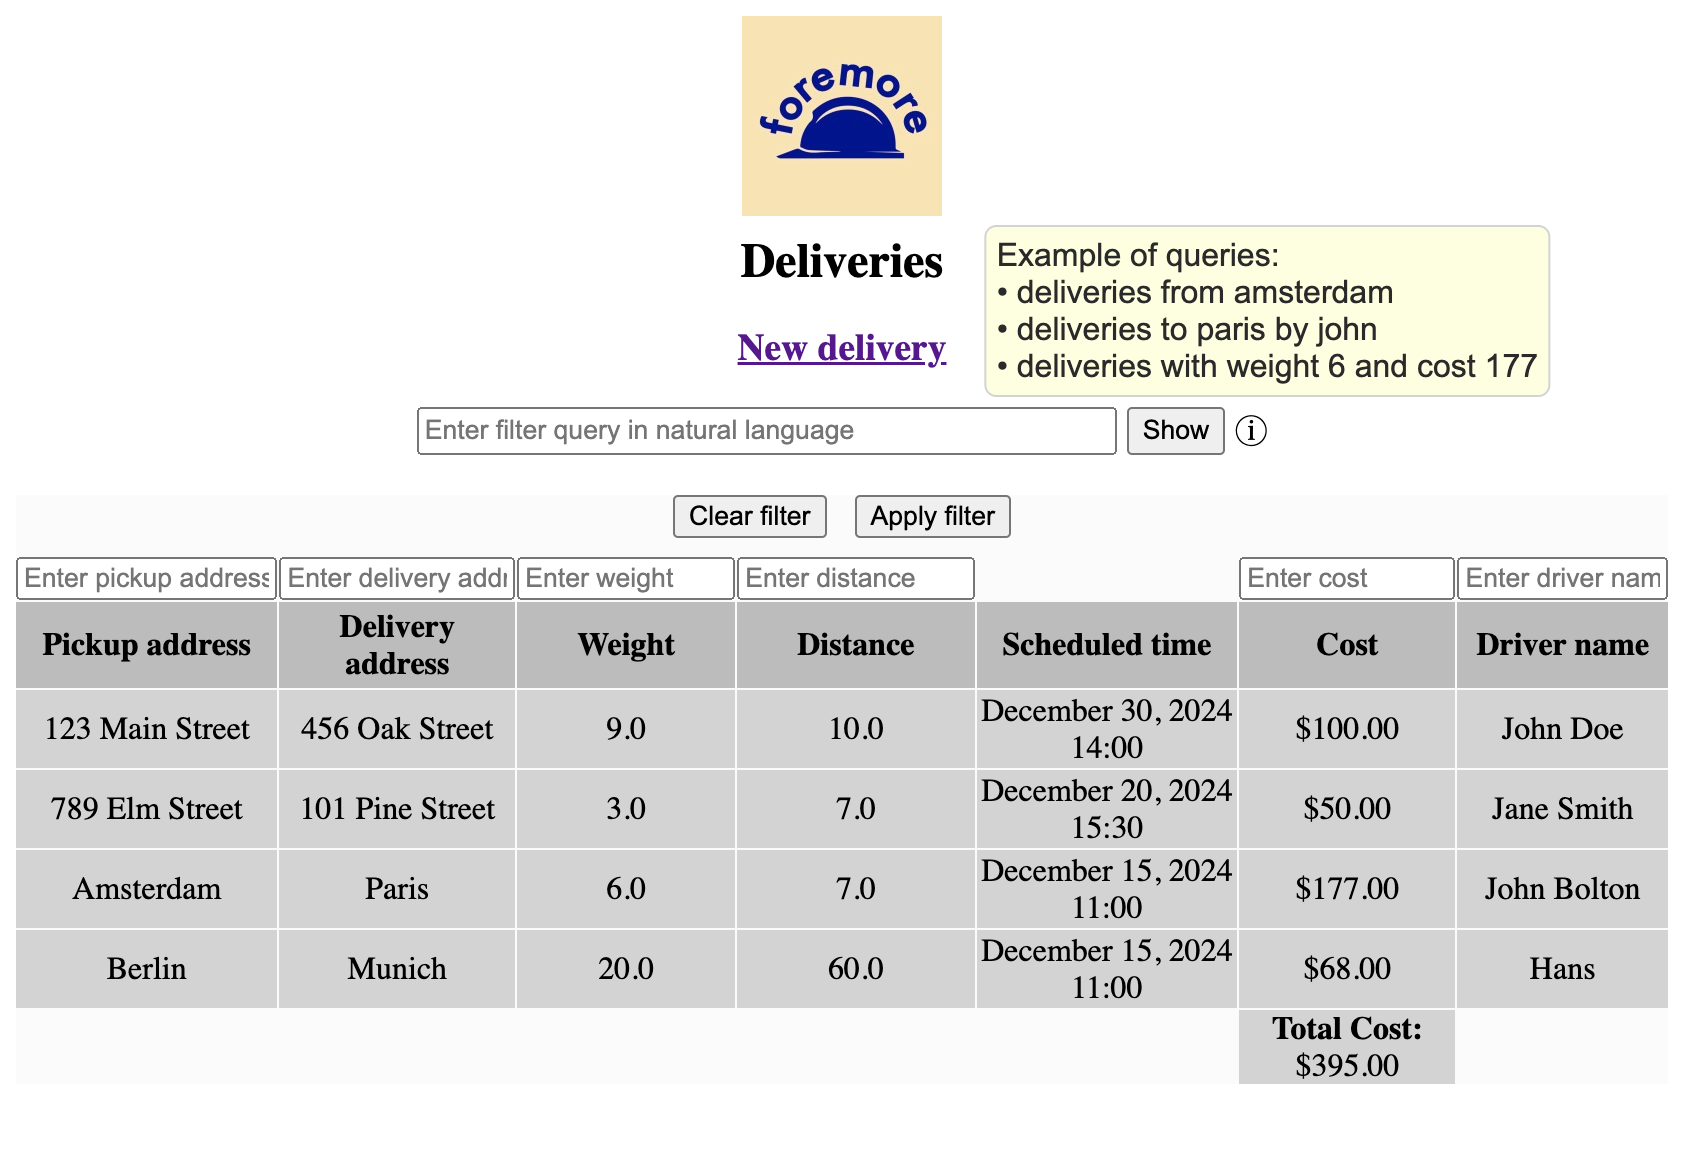
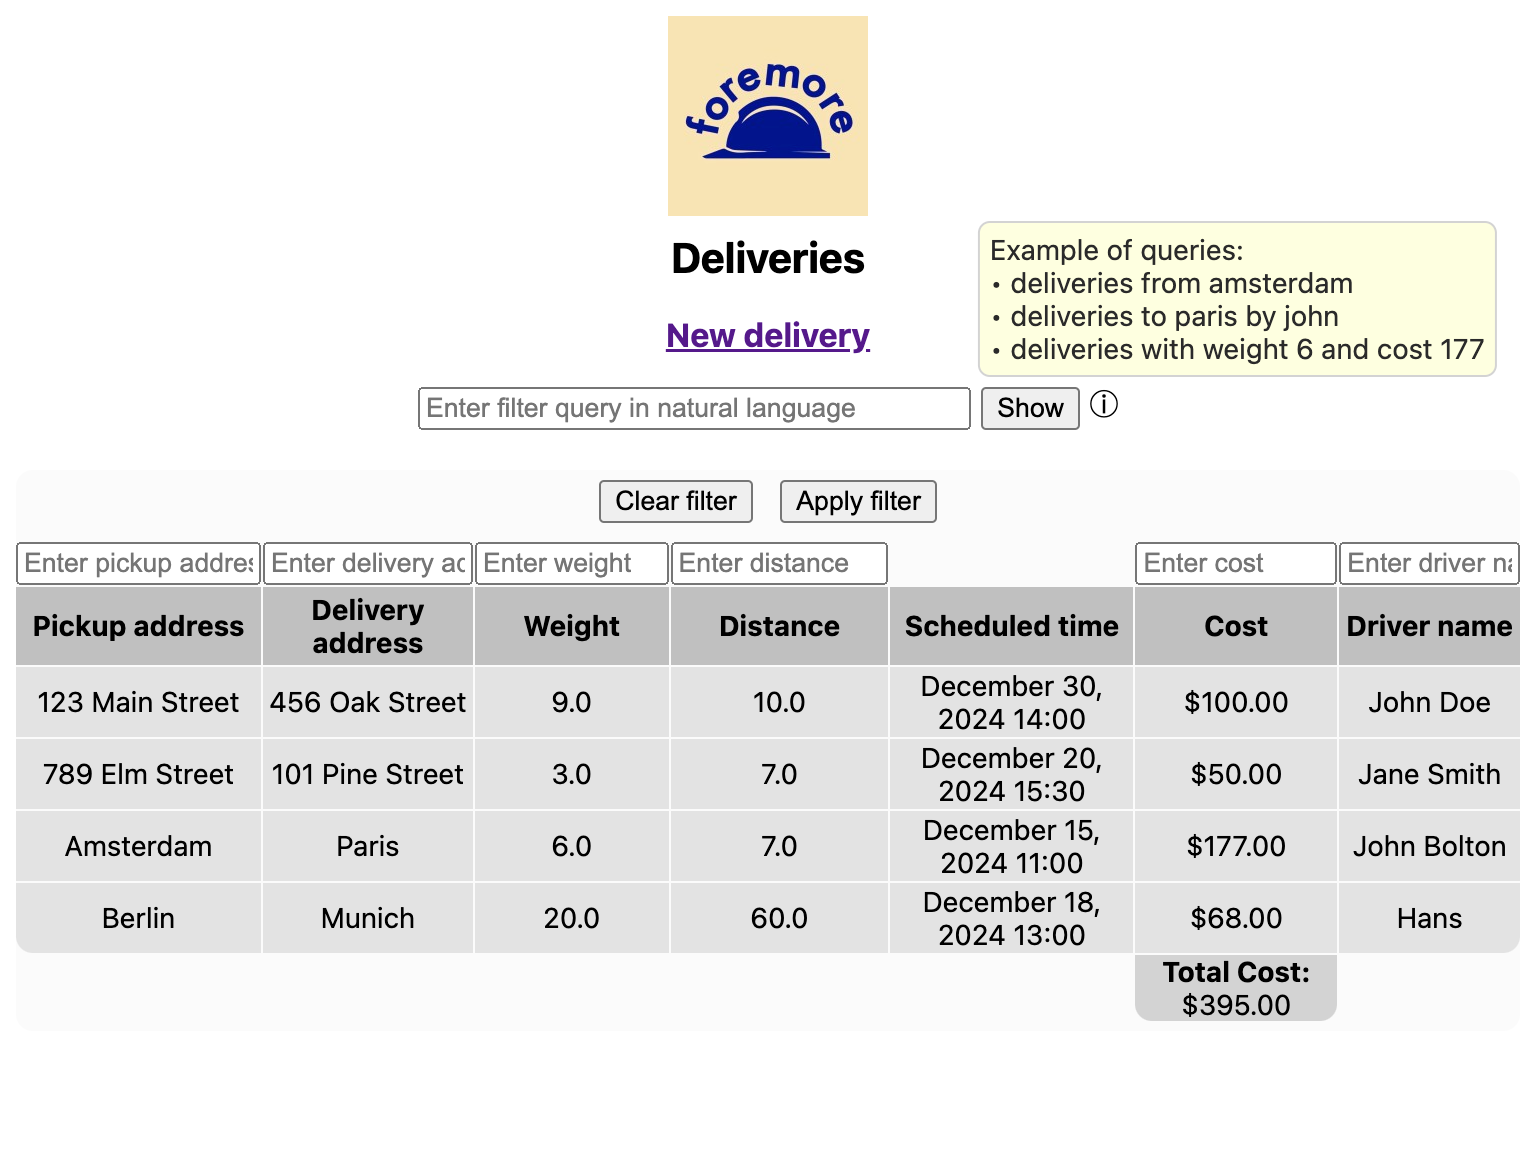
Font change

Changed region(s): [[0.0, 0.0311, 1.0, 0.9654]]

diff --git a/app/assets/stylesheets/deliveries-index.css b/app/assets/stylesheets/deliveries-index.css
@@ -32,7 +32,6 @@ body > h2 {
 
 #ai-query-info > #ai-query-tooltip {
   visibility: hidden;
-  font-family: 'Arial', sans-serif;
   font-size: 1rem;
   color: #2a2a2a;
   white-space: nowrap;
@@ -40,7 +39,6 @@ body > h2 {
   background-color: lightyellow;
   padding: 5px;
   border-radius: 6px;
- 
   position: absolute;
   transform: translate(-100%, -100%) translateY(-5px);
 }

diff --git a/app/assets/stylesheets/application.css b/app/assets/stylesheets/application.css
@@ -10,7 +10,8 @@
  */
 
 html {
-  font-size: clamp(6px, 3vw, 16px);
+  font-family: ui-sans-serif, system-ui, sans-serif;
+  font-size: clamp(6px, 2.5vw, 14px);
 }
 
 body {
